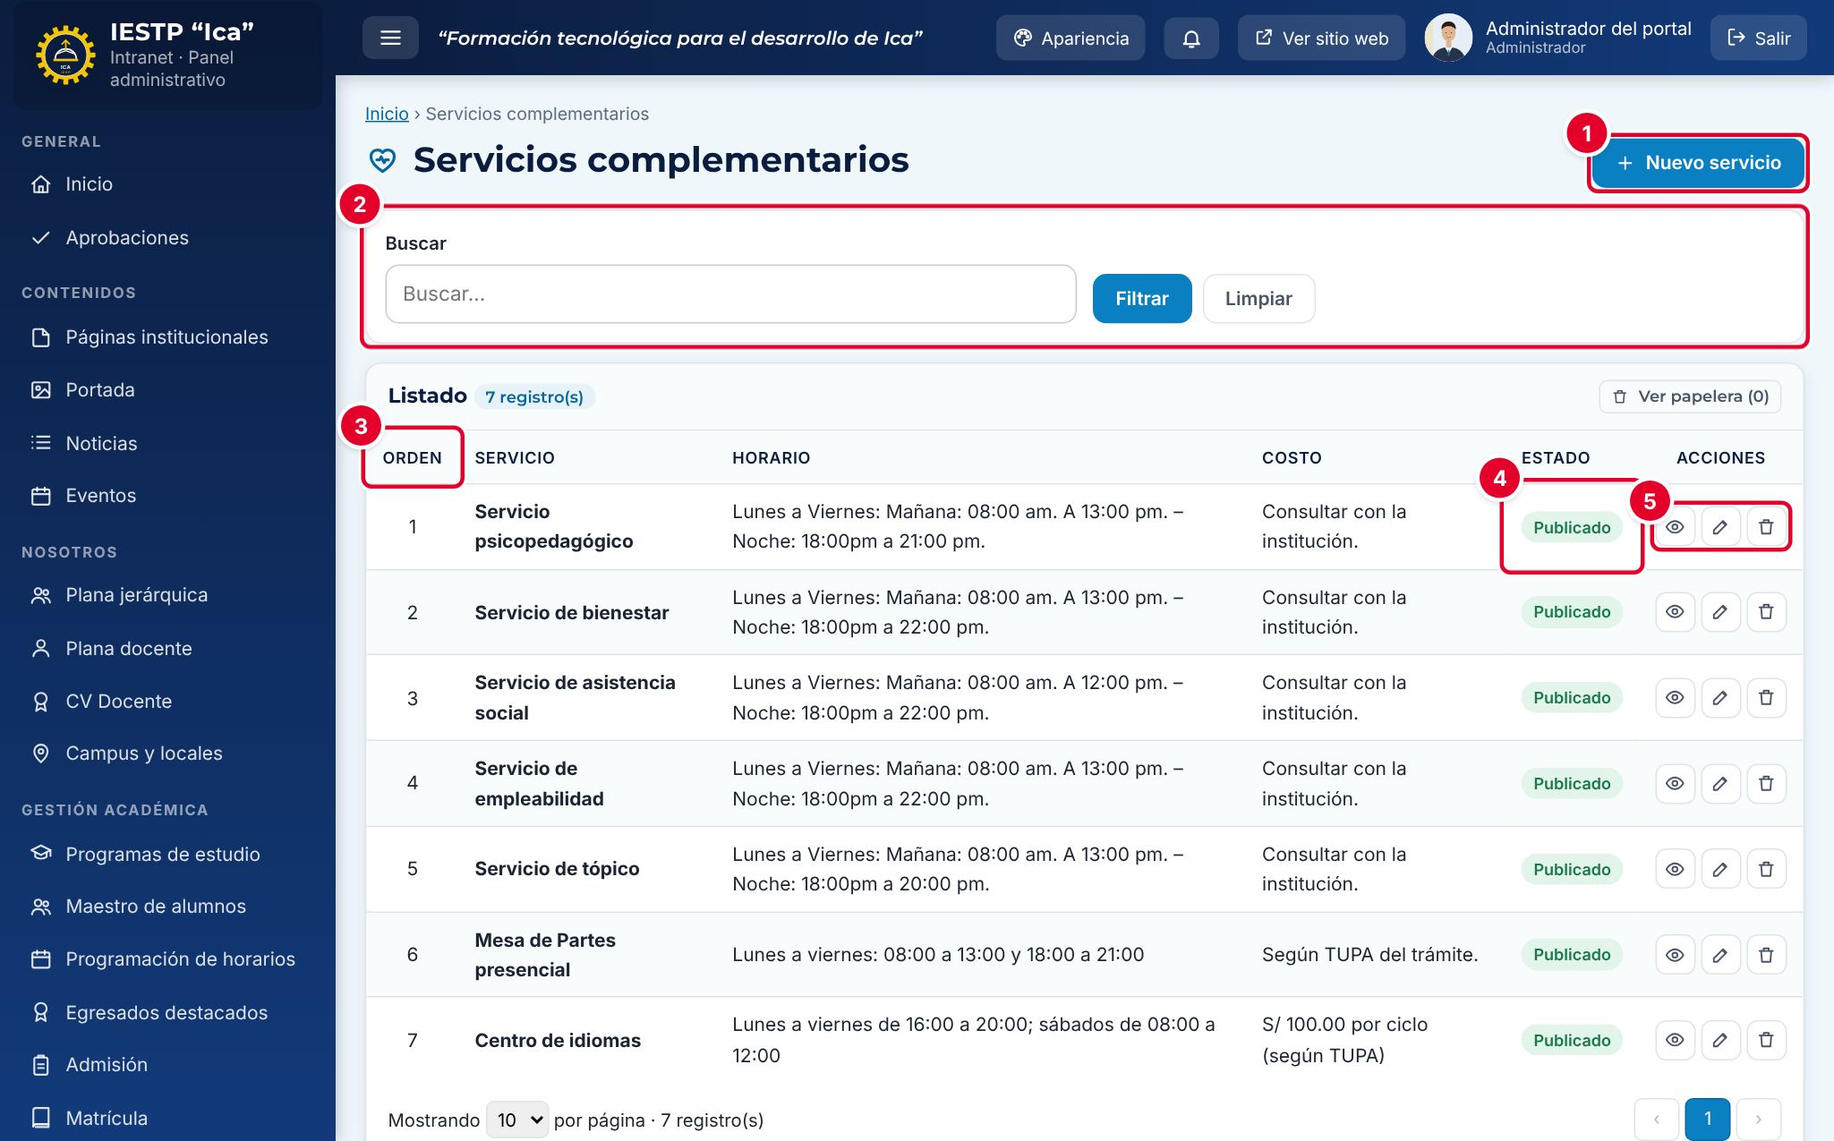
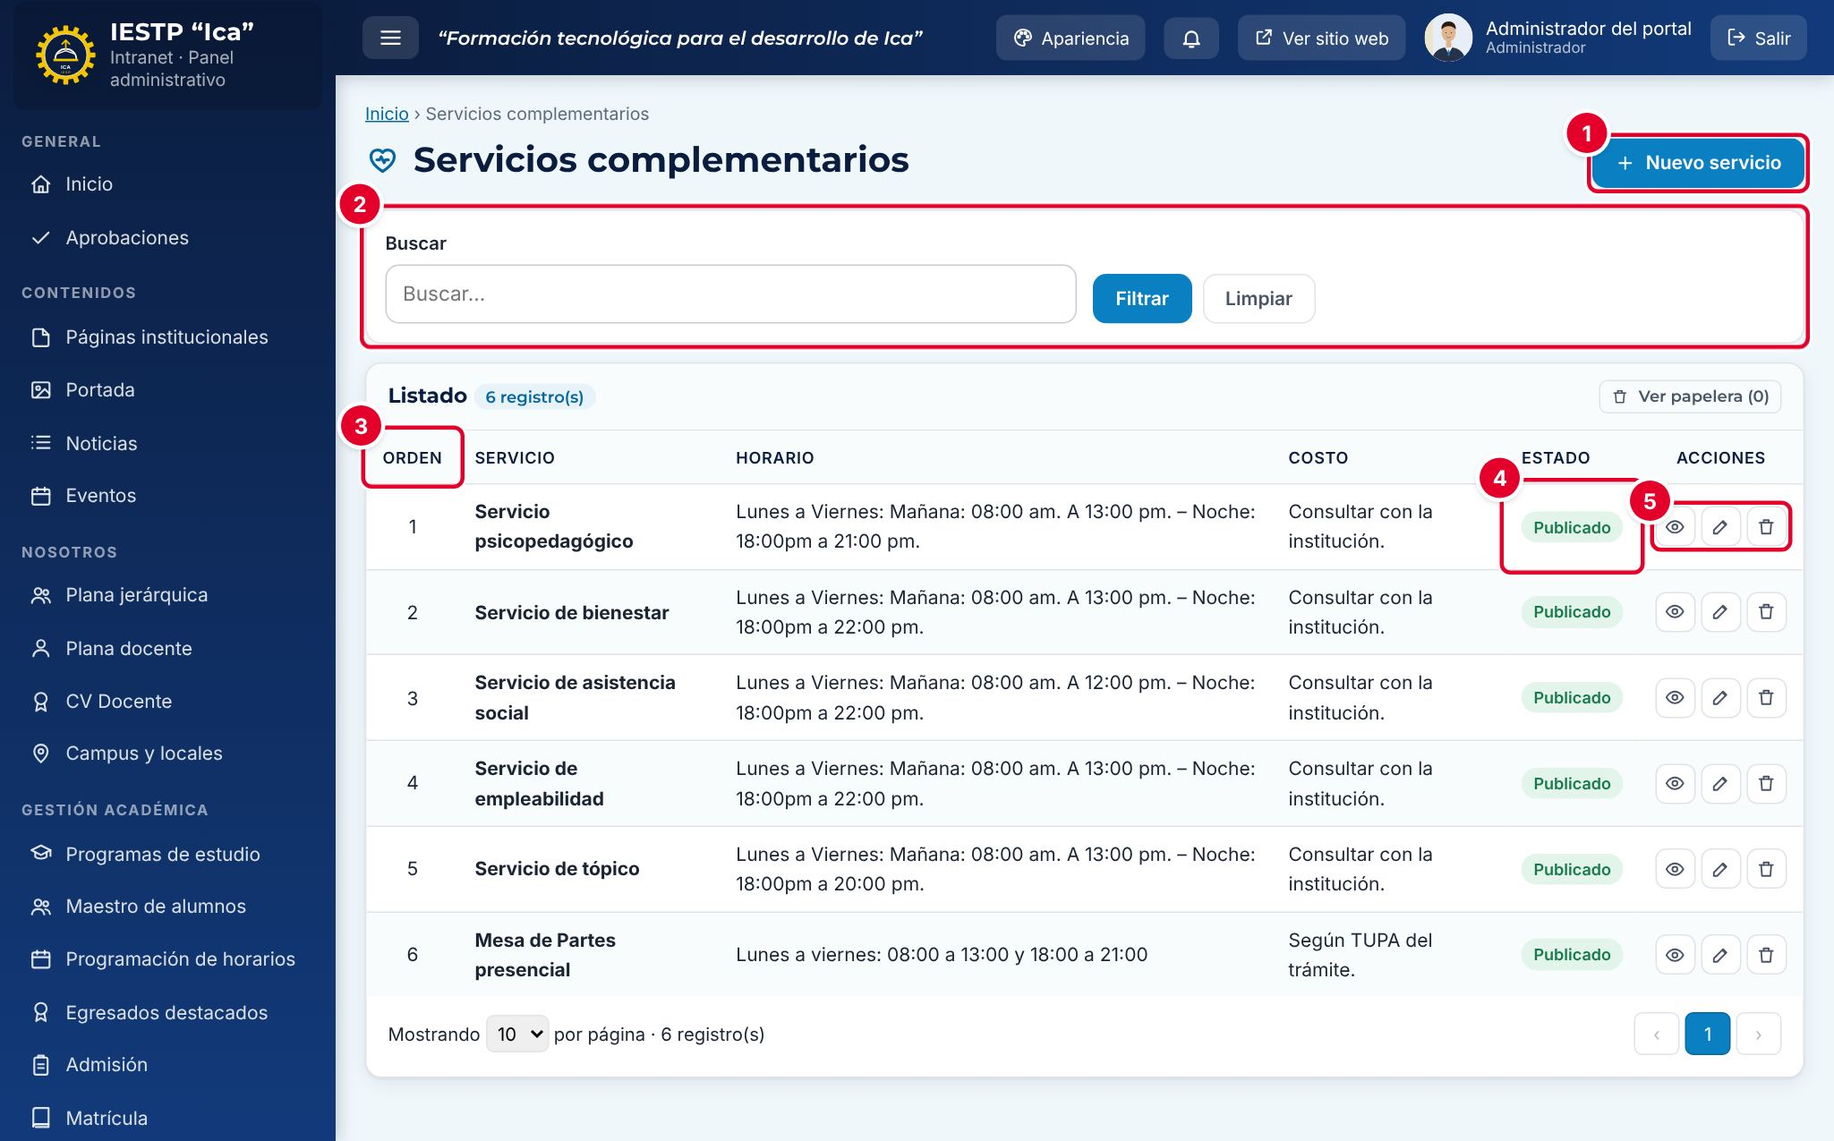
Avance del manual: Transparencia, Enlaces y Servicios complementarios; anonimiza responsables de servicios
Claude-Session: https://claude.ai/code/session_01DP8ftYn5PnbPtn76Vme9r6

diff --git a/manual/herramientas/anonimizar.py b/manual/herramientas/anonimizar.py
@@ -66,6 +66,11 @@ def _limpiar(o):
 d = _limpiar(d)
 c = d['config']
 c.setdefault('redes', {})['facebook'] = ''
+for sv in d.get('servicios', []):
+    if sv.get('responsable') and not sv['responsable'].startswith('Confirmar'):
+        sv['responsable'] = random.choice(NOM) + ' ' + random.choice(APE)
+if isinstance(d.get('tupaDocs'), dict) and d['tupaDocs'].get('referencia'):
+    d['tupaDocs']['referencia'] = d['tupaDocs']['referencia'].replace('IESTP-N/', 'IESTP-ICA/')
 for k in ('seo', 'popup'):
     if isinstance(c.get(k), dict) and 'nasca' in str(c[k].get('imagen', '')): c[k]['imagen'] = ''
 json.dump(d, open(dst,'w',encoding='utf-8'), ensure_ascii=False)

diff --git a/manual/contenido/03-portada.md b/manual/contenido/03-portada.md
@@ -1,0 +1,184 @@
+# 03 · Portada
+
+## Para qué sirve
+
+Desde este módulo se arma la página de inicio del portal: las diapositivas del **carrusel**, el orden y la visibilidad de los **bloques**, los **accesos rápidos**, las **cifras institucionales**, la sección **¿Por qué estudiar aquí?** y la **ventana emergente** (comunicado) que aparece al entrar al portal.
+
+## Quién lo usa
+
+| Rol | Puede |
+|---|---|
+| Administrador | Todo, incluida la eliminación definitiva de diapositivas desde la papelera |
+| Imagen institucional | Crear, editar, publicar y enviar a la papelera diapositivas; configurar bloques, accesos, cifras, beneficios y la ventana emergente |
+
+## Cómo se llega
+
+Menú lateral › **Contenidos** › **Portada**. El módulo tiene tres pestañas:
+
+| Pestaña | Ruta |
+|---|---|
+| **Carrusel** | `#/admin/slides` |
+| **Bloques, accesos y cifras** | `#/admin/portada` |
+| **Ventana emergente** | `#/admin/popup` |
+
+## Pantalla principal
+
+![Listado de diapositivas del carrusel](../img/03-01-carrusel.jpg)
+
+| N.º | Elemento | Para qué sirve |
+|---|---|---|
+| 1 | Pestañas | **Carrusel**, **Bloques, accesos y cifras** y **Ventana emergente**. |
+| 2 | **Nueva diapositiva** | Abre el formulario de una diapositiva. |
+| 3 | **Orden** | Posición de la diapositiva en el carrusel (1 = primera). |
+| 4 | **Título** | Título y texto de la diapositiva. La columna **Imagen** muestra una miniatura y **Botón**, el texto del botón. |
+| 5 | **Estado** | **Borrador**, **Publicado** o **Despublicado**. Solo las publicadas aparecen en el portal. |
+| 6 | Acciones | **Vista previa** (abre la portada), **Editar** y **Eliminar** (envía a la papelera). |
+
+**Ver papelera** muestra las diapositivas eliminadas; desde ahí se restauran. Solo el Administrador puede eliminarlas definitivamente.
+
+## Formulario
+
+![Formulario de una diapositiva](../img/03-02-diapositiva.jpg)
+
+| N.º | Campo | Para qué sirve |
+|---|---|---|
+| 1 | **Título** | Texto grande de la diapositiva. |
+| 2 | **Texto** | Frase de apoyo debajo del título. |
+| 3 | **Texto del botón** | Texto del botón dorado. |
+| 4 | **Enlace del botón** | Página a la que lleva el botón. |
+| 5 | **Imagen** | Fondo de la diapositiva. |
+| 6 | **Orden** | Posición en el carrusel. En la captura se ve el error por usar un orden ya ocupado. |
+| 7 | **Estado** | **Borrador**, **Publicado** o **Despublicado**. |
+
+| Campo | Obligatorio | Formato o límite | Ejemplo |
+|---|---|---|---|
+| Título | Sí | Hasta 70 caracteres | Inscripciones abiertas: Admisión 2027 |
+| Texto | No | Hasta 180 caracteres | Ocho programas de estudio con título a nombre de la Nación… |
+| Texto del botón | No | Hasta 30 caracteres. Si lo escribes, el enlace es obligatorio | Postula aquí |
+| Enlace del botón | Si hay botón | Ruta interna (`#/admision`), URL completa (`https://…`) o servicio externo (`ext:id`). No se admite `#` solo | #/admision |
+| Imagen | Sí | JPG, PNG o WEBP, hasta 15 MB. Tamaño recomendado: 1600 × 600 px | — |
+| Orden | Sí | Número desde 1. No puede repetirse entre las diapositivas en Borrador o Publicado | 9 |
+| Estado | Sí | Borrador, Publicado o Despublicado | Publicado |
+
+## Procedimientos
+
+### Agregar una diapositiva al carrusel
+
+1. En la pestaña **Carrusel**, pulsa **Nueva diapositiva**.
+2. Escribe el **Título**, el **Texto** y, si corresponde, el **Texto del botón** y su **Enlace del botón**.
+3. Pulsa **Seleccionar imagen** y elige una imagen horizontal. Aparece el aviso «Imagen cargada y optimizada (… KB).»
+4. Escribe el **Orden**. Usa un número que no esté ocupado; si está ocupado aparece «El orden N ya está asignado a “…”.»
+5. Elige el **Estado** **Publicado** y pulsa **Guardar cambios**.
+
+![La diapositiva publicada en el listado](../img/03-03-diapositiva-publicada.jpg)
+
+La diapositiva aparece en el listado ① con su orden y estado.
+
+Para cambiar el orden del carrusel, edita las diapositivas y ajusta sus números. Para retirar una diapositiva sin borrarla, cámbiala a **Despublicado**: así además libera su número de orden.
+
+### Ordenar y ocultar los bloques de la portada
+
+![Bloques de la portada](../img/03-05-bloques.jpg)
+
+1. Abre la pestaña **Bloques, accesos y cifras**.
+2. En **Bloques de la portada (orden y visibilidad)** ① están los once bloques en el orden en que aparecen en el portal.
+3. Desmarca **Visible** ② para ocultar un bloque.
+4. Usa las flechas **Subir** ③ y **Bajar** ④ para moverlo.
+5. Pulsa **Guardar cambios** al final de la página. Aparece «Cambios guardados.»
+
+| Bloque | Qué muestra | Se oculta solo si… |
+|---|---|---|
+| Carrusel principal | Diapositivas publicadas | No hay diapositivas publicadas |
+| Accesos rápidos | Tarjetas de acceso directo | — |
+| Bienvenida de la Dirección | Los dos primeros párrafos de la página **Presentación** y la foto del director | La página Presentación no está publicada |
+| Cifras institucionales | Cifras con su año de corte | — |
+| Programas de estudio | Tarjetas de los programas publicados | — |
+| Noticias recientes | Las seis noticias más recientes | — |
+| ¿Por qué estudiar aquí? | Hasta ocho beneficios | — |
+| Plana jerárquica | Hasta seis autoridades publicadas | No hay autoridades publicadas |
+| Testimonios de egresados | Tres egresados destacados | No hay egresados publicados |
+| Eventos próximos | Los tres próximos eventos | No hay eventos futuros publicados |
+| Enlaces MINEDU | Enlaces del grupo MINEDU con URL | — |
+
+### Configurar los accesos rápidos y las cifras
+
+![Accesos rápidos y cifras institucionales](../img/03-06-accesos-cifras.jpg)
+
+1. En **Accesos rápidos (4 recomendados)** ①, completa por cada fila **Título**, **Texto**, **Ícono** y **Enlace (#/ruta, https:// o ext:id)** ②. Usa **Agregar** para una fila nueva y los botones de la derecha para subir, bajar o quitar filas.
+2. Revisa **Visibilidad de los accesos** ③: indica cuántos accesos se mostrarán y cuáles faltan completar. Un acceso con enlace vacío o con un servicio externo inactivo no se muestra.
+3. En **Cifras institucionales** ④, escribe la **Etiqueta**, el **Valor** y el **Año de corte**. Para que la cifra se calcule sola, escribe en **Valor**:
+   - `auto:anios`: años desde la fecha de creación de la institución.
+   - `auto:programas`: cantidad de programas publicados.
+   - `auto:matriculados`: matriculados del último año en Estadísticas.
+   - `auto:egresados`: total de egresados en Estadísticas.
+4. Pulsa **Guardar cambios**.
+
+![Error por un acceso incompleto](../img/03-07-acceso-incompleto.jpg)
+
+Si alguna fila está incompleta, no se guarda nada y aparece el mensaje ①: «Completa el título y el enlace de cada acceso, o quita la fila vacía.»
+
+### Editar «¿Por qué estudiar aquí?»
+
+![Beneficios de la portada](../img/03-08-beneficios.jpg)
+
+1. En **¿Por qué estudiar aquí? (hasta 8)** ①, escribe el **Título**, la **Descripción** y el **Ícono** de cada beneficio.
+2. Pulsa **Guardar cambios** ②.
+
+### Publicar un comunicado en la ventana emergente
+
+![Formulario de la ventana emergente](../img/03-10-ventana-emergente.jpg)
+
+1. Abre la pestaña **Ventana emergente**.
+2. Marca **Mostrar ventana emergente en la portada** ①.
+3. Escribe el **Título** ② y el **Texto** ③.
+4. Opcional: escribe el **Texto del botón** ④ y su **Enlace** ⑤.
+5. Indica **Mostrar desde** ⑥ y **Mostrar hasta** ⑦. Fuera de esas fechas no se muestra.
+6. Opcional: carga una **Imagen** ⑧. Si ya había una, confirma con **Reemplazar**.
+7. Pulsa **Guardar cambios** ⑨.
+
+| Campo | Obligatorio | Formato o límite | Ejemplo |
+|---|---|---|---|
+| Mostrar ventana emergente en la portada | No | Casilla. Desmarcada, el comunicado no se muestra | Marcada |
+| Título | Sí | Texto | Admisión 2027: inscripciones abiertas |
+| Texto | No | Texto | Postula a cualquiera de nuestros ocho programas… |
+| Texto del botón | No | Texto. Si se deja vacío se usa «Ver más» | Ver requisitos |
+| Enlace | No | `#/ruta`, `https://…` o `ext:id`. Sin enlace no se muestra botón | #/admision |
+| Mostrar desde / Mostrar hasta | No | Fechas. La final no puede ser anterior a la inicial | 03/11/2026 – 23/11/2026 |
+| Imagen | No | JPG, PNG o WEBP, hasta 15 MB | — |
+
+Para retirar el comunicado, desmarca **Mostrar ventana emergente en la portada** y pulsa **Guardar cambios**.
+
+## Resultado en el portal público
+
+![Diapositiva en el carrusel del portal](../img/03-04-web-carrusel.jpg)
+
+En `{{inst.dominio}}` el carrusel muestra el título ①, el texto y el botón ② de cada diapositiva publicada. Los puntos ③ y las flechas ④ permiten pasar de una diapositiva a otra. La franja amarilla superior ⑤ aparece cuando hay un proceso de **Admisión** vigente y publicado; su texto se edita en el módulo **Admisión**, no en Portada.
+
+![Accesos rápidos y cifras en el portal](../img/03-09-web-accesos-cifras.jpg)
+
+Debajo del carrusel aparecen los accesos rápidos ① y, más abajo, las cifras institucionales ② con su año de corte.
+
+![Ventana emergente en el portal](../img/03-11-web-ventana.jpg)
+
+La ventana emergente ① aparece al abrir la portada con la imagen, el texto y el botón ②. Se muestra **una sola vez por sesión del navegador**: si el visitante la cierra, no vuelve a salir hasta que abra el portal en otra sesión.
+
+## Mensajes y problemas frecuentes
+
+| Mensaje o situación | Causa | Qué hacer |
+|---|---|---|
+| «El orden N ya está asignado a “…”.» | Otra diapositiva en Borrador o Publicado usa ese número | Usa otro número o despublica la otra diapositiva |
+| «Indique el enlace del botón.» | Se escribió texto del botón sin enlace | Completa el **Enlace del botón** o borra el texto del botón |
+| «Use una ruta interna (#/…) o una URL completa (https://…). No use “#” vacío.» | Enlace con formato no válido | Escribe `#/admision`, `https://…` o `ext:id` |
+| «Completa el título y el enlace de cada acceso, o quita la fila vacía.» | Fila de acceso rápido incompleta | Complétala o quítala con el botón de papelera |
+| «Cada cifra debe indicar su año de corte.» | Cifra sin **Año de corte** | Escribe el año de corte |
+| «La fecha final debe ser posterior a la inicial.» | **Mostrar hasta** es anterior a **Mostrar desde** | Corrige las fechas |
+| La ventana emergente no aparece | Está desmarcada, fuera de fechas o ya se mostró en esa sesión | Revisa la casilla y las fechas; prueba en una ventana privada del navegador |
+| Un bloque no aparece aunque está **Visible** | No tiene contenido publicado (por ejemplo, eventos futuros) | Publica contenido en el módulo correspondiente |
+
+## Buenas prácticas
+
+- Usa imágenes de 1600 × 600 px sin texto importante en los bordes: el título de la diapositiva se superpone a la izquierda.
+- Mantén entre tres y seis diapositivas publicadas; un carrusel muy largo no se recorre completo.
+- Usa la ventana emergente solo para comunicados urgentes o de temporada y ponle siempre fecha de fin.
+- Revisa la portada en el celular después de cada cambio.
+- Prefiere los valores `auto:` en las cifras para que se actualicen solas, y actualiza el año de corte de las cifras manuales.

diff --git a/manual/contenido/05-eventos.md b/manual/contenido/05-eventos.md
@@ -1,0 +1,138 @@
+# 05 · Eventos
+
+## Para qué sirve
+
+En este módulo se registra la agenda institucional: ferias, ceremonias, talleres, charlas y actividades deportivas o culturales. Los eventos publicados aparecen en la página **Eventos** del portal, en el bloque **Próximos eventos** de la portada y en **Próximas fechas** del Inicio de la intranet.
+
+## Quién lo usa
+
+| Rol | Puede |
+|---|---|
+| Administrador | Crear, editar, publicar, enviar a la papelera, restaurar y **eliminar definitivamente** |
+| Imagen institucional | Crear, editar, publicar, enviar a la papelera y restaurar |
+
+## Cómo se llega
+
+Menú lateral › **Contenidos** › **Eventos**. Ruta: `#/admin/eventos`
+
+## Pantalla principal
+
+![Listado de eventos](../img/05-01-listado.jpg)
+
+| N.º | Elemento | Para qué sirve |
+|---|---|---|
+| 1 | **Nuevo evento** | Abre el formulario para registrar un evento. |
+| 2 | **Buscar** | Filtra por título. Pulsa **Filtrar** para aplicar y **Limpiar** para quitar el filtro. |
+| 3 | **Fecha** | Fecha y hora del evento. El listado se ordena del más lejano al más antiguo. |
+| 4 | **Estado** | **Borrador** (no visible) o **Publicado** (visible en el portal). |
+| 5 | Acciones | **Vista previa**, **Editar** y **Eliminar**. |
+| 6 | **Ver papelera** | Muestra los eventos eliminados para restaurarlos. |
+
+## Formulario
+
+![Formulario de un evento](../img/05-02-formulario.jpg)
+
+| N.º | Campo | Para qué sirve |
+|---|---|---|
+| 1 | **Título** | Nombre del evento. |
+| 2 | **Fecha y hora** | Día y hora de inicio. Define si el evento es próximo o ya realizado. |
+| 3 | **Lugar** | Dónde se realiza. |
+| 4 | **Descripción** | Detalle del evento. |
+| 5 | **Estado** | **Borrador** o **Publicado**. |
+| 6 | **Vista previa** | Muestra la agenda del portal con el evento, sin publicarlo. |
+| 7 | **Guardar cambios** | Guarda el evento. |
+
+| Campo | Obligatorio | Formato o límite | Ejemplo |
+|---|---|---|---|
+| Título | Sí | Texto | Feria de Proyectos Tecnológicos 2026 |
+| Fecha y hora | Sí | Fecha y hora | 15/11/2026 09:00 |
+| Lugar | Sí | Texto | Patio central y laboratorios del Pabellón A |
+| Descripción | Al publicar | Texto sin formato | Exposición de los proyectos de innovación… |
+| Estado | Sí | Borrador o Publicado | Publicado |
+
+## Procedimientos
+
+### Registrar y publicar un evento
+
+1. Pulsa **Nuevo evento**.
+2. Escribe el **Título**, la **Fecha y hora**, el **Lugar** y la **Descripción**.
+3. Elige el **Estado**: **Borrador** si aún falta confirmar datos, **Publicado** si ya debe verse.
+4. Pulsa **Vista previa** para revisar cómo quedará la agenda.
+5. Pulsa **Guardar cambios**. Aparece el aviso «Cambios guardados.»
+
+![Descripción obligatoria para publicar](../img/05-03-falta-descripcion.jpg)
+
+Si eliges **Publicado** sin descripción, el campo se marca en rojo ① con el mensaje «Obligatorio para publicar (puede guardarlo como borrador).»
+
+### Revisar con la vista previa
+
+![Vista previa de la agenda](../img/05-04-vista-previa.jpg)
+
+Desde el listado, el ojo de la fila abre la agenda pública con ese evento incluido, aunque esté en **Borrador**. La franja superior ① indica que es una vista previa; usa **Móvil** o **Escritorio** para cambiar el tamaño y **Cerrar vista previa** para volver.
+
+### Editar o retirar un evento
+
+- Para cambiar fecha, lugar o descripción: pulsa el lápiz (**Editar**), corrige y pulsa **Guardar cambios**.
+- Para retirarlo del portal sin borrarlo (por ejemplo, si se posterga sin fecha): cambia el **Estado** a **Borrador**.
+
+### Eliminar y restaurar
+
+![Confirmación al eliminar](../img/05-05-eliminar.jpg)
+
+1. Pulsa la papelera (**Eliminar**) de la fila.
+2. Lee la confirmación ①: el evento se envía a la papelera, deja de mostrarse en el portal y se puede restaurar. Pulsa **Eliminar**.
+
+![Papelera de eventos](../img/05-06-papelera.jpg)
+
+3. Para recuperarlo, pulsa **Ver papelera** y luego **Restaurar** ①.
+4. Solo el **Administrador** ve **Eliminar definitivamente**. Esta acción pide dos confirmaciones y no se puede deshacer.
+
+## Flujo y estados
+
+```mermaid
+flowchart TD
+  N([Nuevo evento]) --> B[Borrador<br/>no visible]
+  B -->|Estado: Publicado| P[Publicado<br/>visible en el portal]
+  P -->|Estado: Borrador| B
+  P -->|llega la fecha| R[Evento realizado<br/>sigue visible en la agenda]
+  P -.->|Eliminar| T[(Papelera)]
+  T -.->|Restaurar| P
+```
+
+| Estado | Significado | Visible en el portal |
+|---|---|---|
+| Borrador | En preparación o retirado | No |
+| Publicado con fecha futura o de hoy | Evento próximo | **Sí**: agenda, portada e Inicio de la intranet |
+| Publicado con fecha pasada | Evento realizado | **Sí**: solo en **Eventos realizados** de la agenda |
+| En papelera | Eliminado; se puede restaurar | No |
+
+## Resultado en el portal público
+
+![Agenda de eventos en el portal](../img/05-07-web-agenda.jpg)
+
+En `{{inst.dominio}}/#/eventos` (menú **Otras Páginas** › **Eventos**) el público ve:
+
+- **Próximos eventos** ①: los eventos publicados desde hoy en adelante ②, del más cercano al más lejano, con fecha, hora, lugar y descripción.
+- **Eventos realizados** ③: los eventos publicados con fecha pasada ④, del más reciente al más antiguo.
+
+![Próximos eventos en la portada](../img/05-08-web-portada.jpg)
+
+En la portada, el bloque **Próximos eventos** muestra los tres eventos más cercanos ① y el botón **Ver agenda completa** ②. Si no hay eventos futuros publicados, el bloque no aparece.
+
+## Mensajes y problemas frecuentes
+
+| Mensaje o situación | Causa | Qué hacer |
+|---|---|---|
+| «Obligatorio para publicar (puede guardarlo como borrador).» | Falta la **Descripción** al publicar | Escríbela o guarda como **Borrador** |
+| «Este campo es obligatorio.» | Falta el título, la fecha o el lugar | Completa el campo marcado |
+| El evento no aparece en la portada | Está en Borrador, ya pasó su fecha o hay otros tres eventos más cercanos | Revisa el estado y la fecha; el evento sí aparece en la agenda completa |
+| El bloque **Próximos eventos** no se ve en la portada | No hay eventos futuros publicados, o el bloque está oculto en **Portada** | Publica un evento o revisa **Portada › Bloques, accesos y cifras** |
+| Eliminé un evento por error | — | Recupéralo desde **Ver papelera** › **Restaurar** |
+
+## Buenas prácticas
+
+- Registra el evento apenas tengas fecha y lugar confirmados, aunque falte la descripción final (guárdalo como **Borrador**).
+- Indica en el lugar el pabellón o ambiente exacto y, si es externo, la dirección.
+- Escribe en la descripción a quién está dirigido y si requiere inscripción.
+- Si el evento se posterga, cambia la fecha en lugar de crear un evento nuevo.
+- Para la cobertura posterior, publica una noticia en **Noticias**: el evento quedará en **Eventos realizados** como registro.

diff --git a/manual/contenido/02-paginas-institucionales.md b/manual/contenido/02-paginas-institucionales.md
@@ -99,7 +99,7 @@ Restaurar también crea una versión: siempre puedes volver al estado anterior.
 
 ### Retirar una página del portal
 
-Edita la página, cambia el **Estado** a **Borrador** y pulsa **Guardar cambios**. Quien entre a su dirección verá la página de «no encontrada». Las páginas fijas en borrador también dejan de verse, así que úsalo con cuidado.
+Edita la página, cambia el **Estado** a **Borrador** y pulsa **Guardar cambios**. Quien entre a su dirección verá «Página no encontrada». Las páginas fijas en borrador también dejan de verse, así que úsalo con cuidado.
 
 ### Registrar un reconocimiento
 
@@ -162,7 +162,7 @@ Los reconocimientos publicados se muestran en **Nosotros › Reconocimientos**, 
 | «Obligatorio para publicar (puede guardarlo como borrador).» | Se eligió **Publicada** con el contenido vacío | Escribe el contenido o guarda como **Borrador** |
 | «Ya existe un registro con este valor (…).» | El slug ya lo usa otra página | Cambia la **URL amigable (slug)** |
 | No aparece el botón **Nueva página** | Tu rol es Imagen institucional | Pide al Administrador que cree la página |
-| La página muestra «no encontrada» | Está en **Borrador** o la dirección está mal escrita | Publícala o revisa el slug en el listado |
+| El portal muestra «Página no encontrada» | Está en **Borrador** o la dirección está mal escrita | Publícala o revisa el slug en el listado |
 | Cambié el slug de una página fija y la dirección no cambió | Las páginas fijas tienen una dirección propia | Es normal; el slug solo cambia la dirección de las páginas nuevas |
 | Borré texto por error | — | Edita la página y usa **Restaurar** en **Versiones anteriores** |
 
